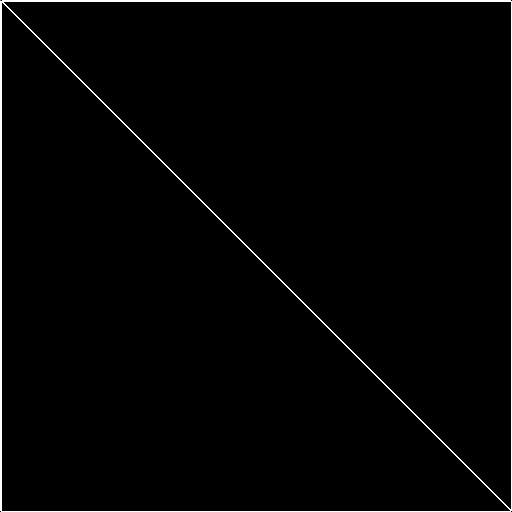
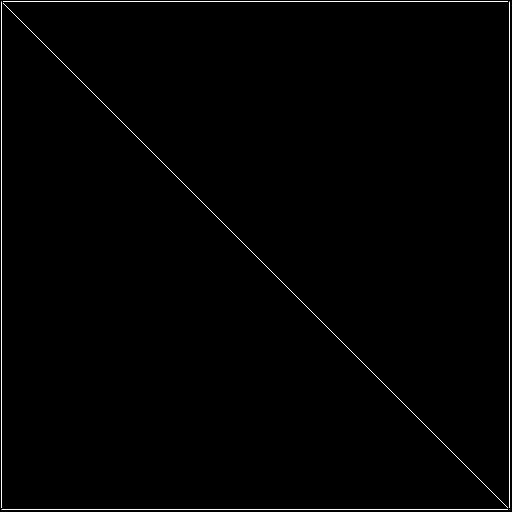
it does all the things now

Changed region(s): [[0.0, 0.0, 1.0, 1.0], [0.0, 0.0, 0.0312, 0.0312]]

diff --git a/a1/Renderer.py b/a1/Renderer.py
@@ -2,7 +2,6 @@ from Mesh import *
 from math import *
 from PIL import Image
 from itertools import chain
-import numpy as np
 
 class Renderer:
 
@@ -27,13 +26,13 @@ class Renderer:
 
         image = Image.new("RGB", (dimensions, dimensions), (0,0,0) )
 
-        offset = self.dimensions / 2
+        offset = self.dimensions / 2 - 2
 
         for edge in self.mesh.edges:
-            x0 = (edge[0][0] + 1) * offset
-            y0 = (edge[0][1] + 1) * offset
-            x1 = (edge[1][0] + 1) * offset
-            y1 = (edge[1][1] + 1) * offset
+            x0 = float((edge[0][0] + 1) * offset) +1
+            y0 = float((edge[0][1] + 1) * offset) +1
+            x1 = float((edge[1][0] + 1) * offset) +1
+            y1 = float((edge[1][1] + 1) * offset) +1
 
             self.drawLine(x0, y0, x1, y1)
         flat_canvas = list(chain.from_iterable(self.canvas))
@@ -54,8 +53,8 @@ class Renderer:
         if py >= self.dimensions:
             py = self.dimensions - 1
 
-        # maybe only draw if cc is greater than pixels current value
-        self.canvas[px][py] = (cc, cc, cc)
+        # NOTE: x and y are flipped here, otherwise the image prints sideways
+        self.canvas[py][px] = (cc, cc, cc)
 
     def ipart(self, x):
         return floor(x)
@@ -67,7 +66,7 @@ class Renderer:
         return x - floor(x)
 
     def rfpart(self, x):
-        return 1 - self.fpart(x)
+        return 1.0 - self.fpart(x)
 
     def drawLine(self, x0, y0, x1, y1):
         steep = abs(y1 - y0) > abs(x1 - x0)
@@ -86,28 +85,28 @@ class Renderer:
         if dx == 0:
             gradient = 1.0
         else: # must be nested to prevent division by 0 error
-            gradient = dy / dx
+            gradient = float(dy) / float(dx)
 
         # first endpoint
         xend = self.round(x0)
-        yend = y0 + gradient * (xend - x0)
-        xgap = self.rfpart(x0 + 0.5)
+        yend = float(y0) + gradient * (float(xend) - float(x0))
+        xgap = self.rfpart(float(x0) + 0.5)
         xpx11 = int(xend)
-        ypx11 = int(self.ipart(yend)) 
+        ypx11 = self.ipart(yend)
         if steep:
             self.plot(ypx11, xpx11, self.rfpart(yend) * xgap)
             self.plot(ypx11 + 1, xpx11, self.fpart(yend) * xgap)
         else:
             self.plot(xpx11, ypx11, self.rfpart(yend) * xgap)
-            self.plot(xpx11 , ypx11 + 1, self.fpart(yend) * xgap)
-        intery = yend + gradient
+            self.plot(xpx11, ypx11 + 1 , self.fpart(yend) * xgap)
+        intery = float(yend + gradient)
 
         # second endpoint
-        xend = self.round(x1)
+        xend = self.round(float(x1))
         yend = y1 + gradient * (xend - x1)
-        xgap = self.rfpart(x1 + 0.5)
+        xgap = self.rfpart(float(x1) + 0.5)
         xpx12 = int(xend)
-        ypx12 = int(self.ipart(yend)) 
+        ypx12 = self.ipart(yend)
         if steep:
             self.plot(ypx12, xpx12, self.rfpart(yend) * xgap)
             self.plot(ypx12 + 1, xpx12, self.fpart(yend) * xgap)
@@ -119,12 +118,12 @@ class Renderer:
         if steep:
             for x in range(xpx11 + 1, xpx12 - 1):
                 self.plot(self.ipart(intery), x, self.rfpart(intery))
-                self.plot(self.ipart(intery) + 1, x, self.rfpart(intery))
+                self.plot(self.ipart(intery) + 1, x, self.fpart(intery))
                 intery = intery + gradient
         else:
             for x in range(xpx11 + 1, xpx12 - 1):
                 self.plot(x, self.ipart(intery), self.rfpart(intery))
-                self.plot(x, self.ipart(intery) + 1, self.rfpart(intery))
+                self.plot(x, self.ipart(intery) + 1, self.fpart(intery))
                 intery = intery + gradient
 
         

diff --git a/a1/Cylinder.py b/a1/Cylinder.py
@@ -1,14 +1,94 @@
 from Mesh import *
+from math import *
 
 class Cylinder:
 
     def __init__(self):
-        self.mesh = Mesh()
+        self.mesh = None
 
     def build_polygon_mesh(self):
-        pass
-    
+        self.build_triangle_mesh(1)
 
     def build_triangle_mesh(self, resolution):  
-        pass
+        n = 8
+        output = 80
+
+        while output < resolution:
+            n += 1
+            output = 2 * n + (n * n) 
+
+        # add scaling
+
+        v_dict = {}
+        m = Mesh()
+
+        # first add center vertices
+        v_bottom = (0, -1, 0)
+        m.vertices.append(v_bottom)
+        v_dict[v_bottom] = True
+
+        v_top = (0, 1, 0)
+        m.vertices.append(v_top)
+        v_dict[v_top] = True
+
+        # the rest of the vertices
+        for first in range(0, n+1):
+            for second in range(0, n+1):
+                x = cos( ((2 * pi) / n) * first )
+                y = (2.0 / (n / 2)) * float(second) - 1.0 
+                z = sin( ((2 * pi) / n) * first )
+
+                coordinates = (x,y,z)
+                if v_dict.get(coordinates) == None:
+                    v_dict[coordinates] = True
+                    m.vertices.append(coordinates)
+
+        # edges
+        e_dict = {}
+
+        for first in range(0, n+1):
+            for second in range(0, n+1):
+                x = cos( ((2 * pi) / n) * first )
+                y = (2.0 / (n / 2)) * float(second) - 1.0
+                z = sin( ((2 * pi) / n) * first )
+
+                x_iPlus1 = cos( ((2 * pi) / n) * (first + 1) )
+                y_jPlus1 = (2.0 / (n / 2)) * float(second + 1) - 1.0
+                z_iPlus1 = sin( ((2 * pi) / n) * (first + 1) )
+
+                coordinates = (x, y, z)
+                vertical    = (x, y_jPlus1, z)
+                horizontal  = (x_iPlus1, y, z_iPlus1)
+                diagonal    = (x_iPlus1, y_jPlus1, z_iPlus1)
+
+                # if top
+                if y == 1 and e_dict.get( (coordinates, v_top) ) == None:
+                    e_dict[ (coordinates, v_top) ] = True
+                    m.edges.append( (coordinates, v_top) )
+
+                # if bottom
+                if y == -1 and e_dict.get( (coordinates, v_bottom) ) == None:
+                    e_dict[ (coordinates, v_bottom) ] = True
+                    m.edges.append( (coordinates, v_bottom) )
+
+                # horizontal
+                if e_dict.get( (coordinates, horizontal) ) == None:
+                    e_dict[ (coordinates, horizontal) ] = True
+                    m.edges.append( (coordinates, horizontal) )
+                    
+                # vertical
+                if y_jPlus1 <= 1 and e_dict.get( (coordinates, vertical) ) == None:
+                    e_dict[ (coordinates, vertical) ] = True
+                    m.edges.append( (coordinates, vertical) )
+                
+                # diagonal
+                if y_jPlus1 <= 1 and e_dict.get( (coordinates, diagonal) ) == None:
+                    e_dict[ (coordinates, diagonal) ] = True
+                    m.edges.append( (coordinates, diagonal) )
+
+        self.mesh = m
+
+
+
+
 

diff --git a/a1/Cube.py b/a1/Cube.py
@@ -3,7 +3,7 @@ from Mesh import *
 class Cube:
 
     def __init__(self):
-        self.mesh = Mesh()
+        self.mesh = None
 
     def build_polygon_mesh(self):
         self.build_triangle_mesh(1)
@@ -161,9 +161,9 @@ class Cube:
             
                 # x = -1
                 coordinates = (-1, i, j)
-                horizontal  = (1, i_plus1, j)
-                vertical    = (1, i, j_plus1)
-                diagonal    = (1, i_plus1, j_plus1)
+                horizontal  = (-1, i_plus1, j)
+                vertical    = (-1, i, j_plus1)
+                diagonal    = (-1, i_plus1, j_plus1)
                 if first != n and e_dict.get( (coordinates, horizontal) ) == None:
                     e_dict[ (coordinates, horizontal) ] = True
                     m.edges.append( (coordinates, horizontal) )

diff --git a/a1/main.py b/a1/main.py
@@ -5,17 +5,23 @@ from Renderer import *
 
 
 def main():
+    randy = Renderer()
 
     polyCube = Cube()
     polyCube.build_polygon_mesh()
+    randy.render(polyCube.mesh, 512, "polyCube.jpg")
 
     triangleCube = Cube()
-    triangleCube.build_triangle_mesh(13)
+    triangleCube.build_triangle_mesh(4000)
+    randy.render(triangleCube.mesh, 1080, "HDcube.jpg")
 
-    randy = Renderer()
+    polyCylinder = Cylinder()
+    polyCylinder.build_polygon_mesh()
+    randy.render(polyCylinder.mesh, 512, "polyCylinder.jpg")
 
-    randy.render(polyCube.mesh, 512, "polyCube.jpg")
-    randy.render(triangleCube.mesh, 1080, "triangleCube.jpg")
+    triangleCylinder = Cylinder()
+    triangleCylinder.build_triangle_mesh(4000)
+    randy.render(triangleCylinder.mesh, 1080, "HDcylinder.jpg")
 
 
 if __name__ == "__main__":
